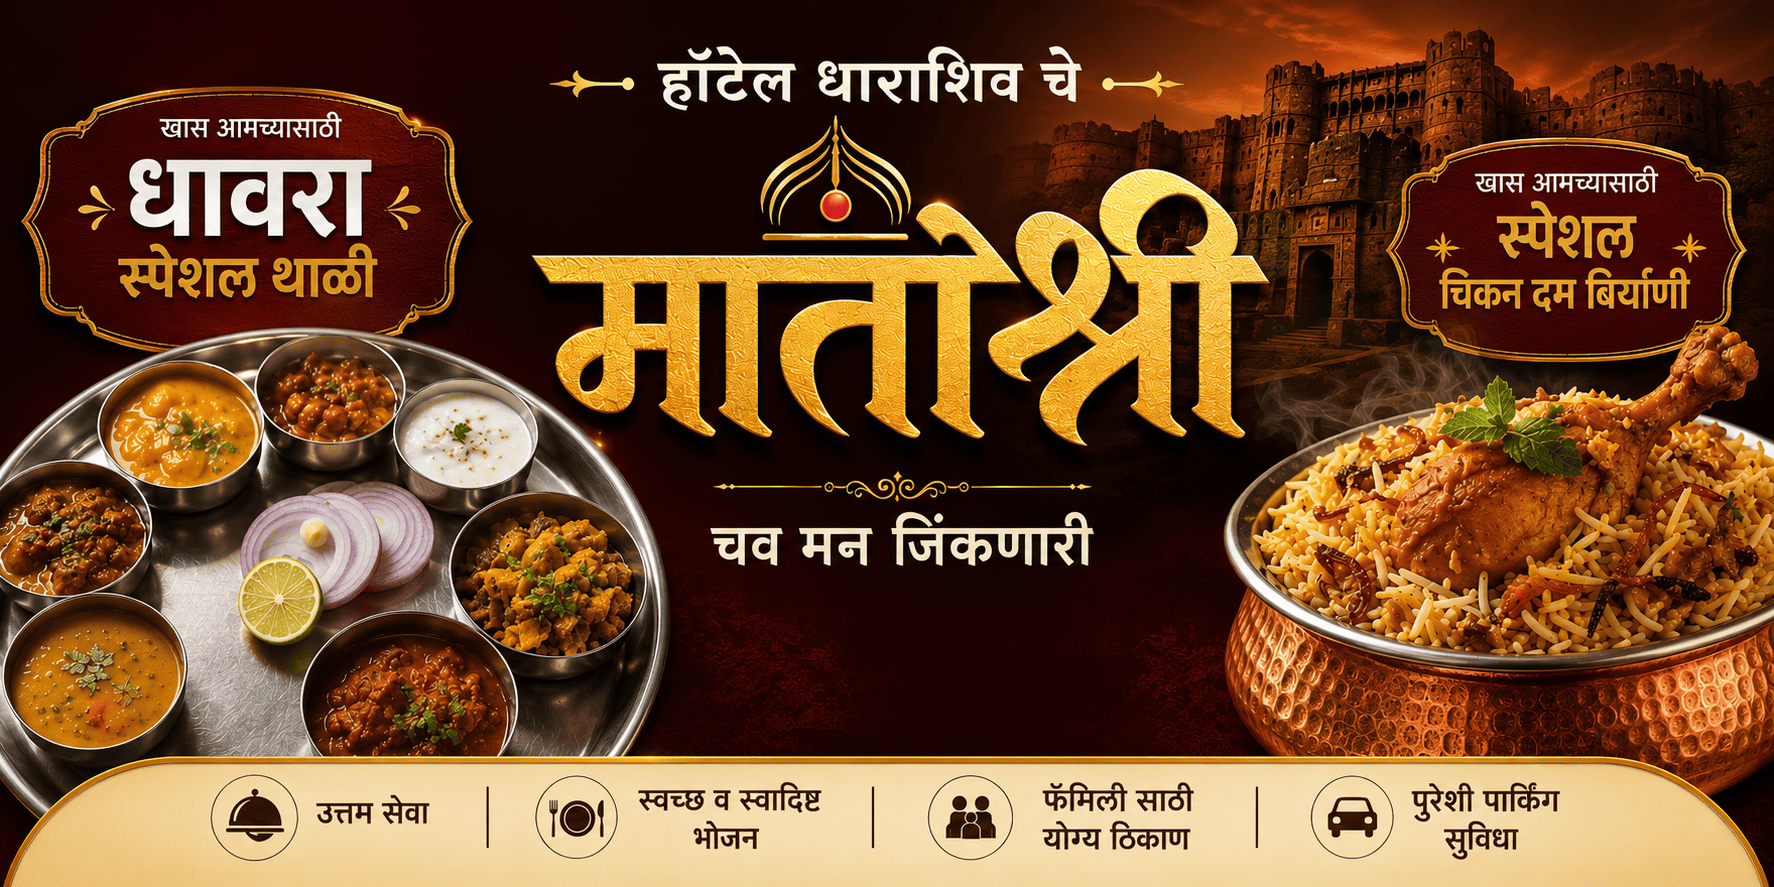
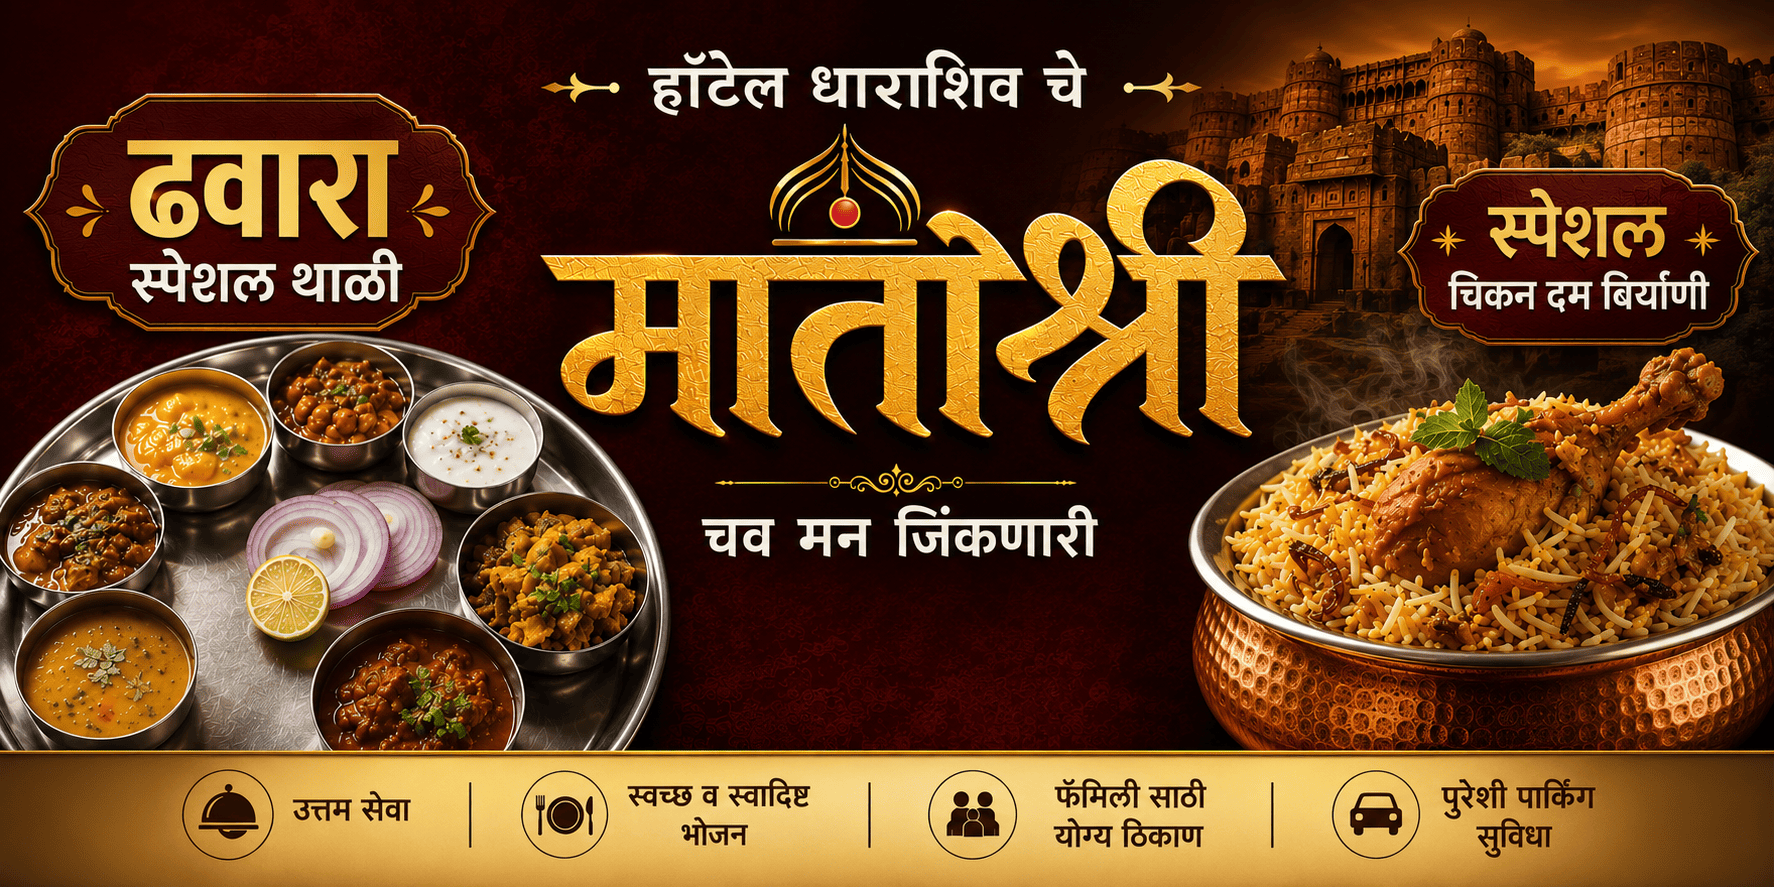
Updated UI for gym and updatehotel matoshree background image

diff --git a/src/components/GymPage.jsx b/src/components/GymPage.jsx
@@ -1,5 +1,4 @@
 import { useEffect, useState } from 'react';
-import { useTranslation } from 'react-i18next';
 import { Analytics } from '@vercel/analytics/react';
 import {
   Activity, ArrowLeft, ArrowRight, BadgeCheck, BicepsFlexed, CalendarDays,
@@ -9,6 +8,9 @@ import {
 } from 'lucide-react';
 import { CONTACT } from '../config.js';
 import gymHero from '../assets/gym/matoshree-gym-hero.png';
+import gymCardio from '../assets/gym/gym-cardio.png';
+import gymPersonalTraining from '../assets/gym/gym-personal-training.png';
+import gymFunctional from '../assets/gym/gym-functional.png';
 
 const copy = {
   mr: {
@@ -76,6 +78,33 @@ const equipment = [
   { icon: Activity, mr: 'फंक्शनल झोन', en: 'Functional zone', items: ['Kettlebells', 'Battle ropes', 'TRX suspension', 'Plyo boxes', 'Resistance bands'] },
 ];
 
+const serviceImages = [
+  {
+    image: gymCardio,
+    number: '01',
+    mr: 'कार्डिओ आणि स्टॅमिना',
+    en: 'Cardio & endurance',
+    mrDesc: 'आधुनिक कार्डिओ फ्लोअरवर तुमची ऊर्जा, सहनशक्ती आणि हृदयाचे आरोग्य वाढवा.',
+    enDesc: 'Build energy, endurance and cardiovascular fitness on a modern cardio floor.',
+  },
+  {
+    image: gymPersonalTraining,
+    number: '02',
+    mr: 'पर्सनल ट्रेनिंग',
+    en: 'Personal training',
+    mrDesc: 'योग्य फॉर्म, वैयक्तिक प्लॅन आणि सातत्यपूर्ण प्रगतीसाठी तज्ज्ञ प्रशिक्षकाची साथ.',
+    enDesc: 'Expert coaching for correct form, a personal programme and consistent progress.',
+  },
+  {
+    image: gymFunctional,
+    number: '03',
+    mr: 'फंक्शनल आणि ग्रुप ट्रेनिंग',
+    en: 'Functional & group training',
+    mrDesc: 'शक्ती, हालचाल आणि आत्मविश्वास वाढवणारे उत्साही कम्युनिटी वर्कआउट्स.',
+    enDesc: 'High-energy community workouts that improve strength, movement and confidence.',
+  },
+];
+
 const faqs = [
   { mrQ: 'नवशिक्यांसाठी ट्रेनर मदत करतात का?', enQ: 'Do trainers help beginners?', mrA: 'होय. इंडक्शन, मशीन ओरिएंटेशन आणि बेसिक वर्कआउट मार्गदर्शन सदस्यत्वात उपलब्ध आहे.', enA: 'Yes. Induction, equipment orientation and basic workout guidance are included.' },
   { mrQ: 'महिलांसाठी स्वतंत्र बॅच आहे का?', enQ: 'Is there a ladies-only batch?', mrA: 'उपलब्ध बॅचेससाठी जिम टीमशी संपर्क साधा; महिलांच्या सुरक्षितता आणि सोयीला प्राधान्य आहे.', enA: 'Please confirm current batch availability; women’s comfort and safety are prioritised.' },
@@ -84,9 +113,8 @@ const faqs = [
 ];
 
 export default function GymPage() {
-  const { i18n } = useTranslation();
-  const isMr = i18n.language !== 'en';
-  const lang = isMr ? 'mr' : 'en';
+  const [lang, setLang] = useState('mr');
+  const isMr = lang === 'mr';
   const c = copy[lang];
   const [menuOpen, setMenuOpen] = useState(false);
   const message = isMr
@@ -120,7 +148,7 @@ export default function GymPage() {
             ))}
           </nav>
           <div className="hidden items-center gap-2 lg:flex">
-            <button type="button" onClick={() => i18n.changeLanguage(isMr ? 'en' : 'mr')} className="inline-flex items-center gap-2 rounded-full px-4 py-2 text-sm font-bold text-white/75 hover:bg-white/10">
+            <button type="button" onClick={() => setLang(isMr ? 'en' : 'mr')} className="inline-flex items-center gap-2 rounded-full px-4 py-2 text-sm font-bold text-white/75 hover:bg-white/10">
               <Globe size={16} />{isMr ? 'English' : 'मराठी'}
             </button>
             <a href="/" className="inline-flex items-center gap-2 rounded-full border border-white/15 px-4 py-2 text-sm font-bold hover:border-amber-500 hover:text-amber-400">
@@ -130,7 +158,7 @@ export default function GymPage() {
           <div className="flex items-center gap-1 lg:hidden">
             <button
               type="button"
-              onClick={() => i18n.changeLanguage(isMr ? 'en' : 'mr')}
+              onClick={() => setLang(isMr ? 'en' : 'mr')}
               className="inline-flex items-center gap-1.5 rounded-full border border-white/15 px-3 py-2 text-xs font-bold text-white/80 hover:border-amber-500 hover:text-amber-400"
               aria-label={isMr ? 'Change language to English' : 'मराठी भाषा निवडा'}
             >
@@ -151,9 +179,9 @@ export default function GymPage() {
 
       <main>
         <section id="top" className="relative flex min-h-screen items-center overflow-hidden pt-16 lg:pt-20">
-          <img src={gymHero} alt="Matoshree Gym modern strength training floor" className="absolute inset-0 h-full w-full object-cover object-center" />
-          <div className="absolute inset-0 bg-gradient-to-r from-black via-black/75 to-black/10" />
-          <div className="absolute inset-0 bg-gradient-to-t from-[#090b0d] via-transparent to-black/30" />
+          <img src={gymHero} alt="Matoshree Gym modern strength training floor" className="absolute inset-0 h-full w-full object-cover object-center brightness-[1.16] saturate-[1.08]" />
+          <div className="absolute inset-0 bg-gradient-to-r from-black/85 via-black/50 to-transparent" />
+          <div className="absolute inset-0 bg-gradient-to-t from-[#090b0d]/85 via-transparent to-black/15" />
           <div className="container-max relative z-10 py-24">
             <div className="max-w-3xl">
               <div className="mb-6 inline-flex items-center gap-2 rounded-full border border-amber-400/30 bg-amber-400/10 px-4 py-2 text-xs font-black uppercase tracking-[.16em] text-amber-400"><Zap size={15} />{c.eyebrow}</div>
@@ -190,6 +218,50 @@ export default function GymPage() {
                   </article>
                 );
               })}
+            </div>
+          </div>
+        </section>
+
+        <section className="overflow-hidden border-y border-white/10 bg-[#0d1013] py-20 sm:py-28">
+          <div className="container-max">
+            <div className="flex flex-col justify-between gap-5 md:flex-row md:items-end">
+              <SectionHeading
+                eyebrow={isMr ? 'तुमचा वर्कआउट. तुमची पद्धत.' : 'Your workout. Your way.'}
+                title={isMr ? 'प्रत्येक ध्येयासाठी प्रीमियम ट्रेनिंग' : 'Premium training for every goal'}
+                sub={isMr ? 'स्वतःच्या गतीने धावा, ट्रेनरसोबत ताकद वाढवा किंवा कम्युनिटीसोबत पुढे जा.' : 'Run at your pace, build strength with a coach, or move forward with the community.'}
+              />
+              <p className="hidden items-center gap-2 pb-1 text-xs font-bold uppercase tracking-[.18em] text-white/35 md:flex">
+                <ArrowRight size={16} className="text-amber-500" />
+                {isMr ? 'अनुभव एक्सप्लोर करा' : 'Explore the experience'}
+              </p>
+            </div>
+
+            <div className="-mx-4 mt-12 flex snap-x snap-mandatory gap-4 overflow-x-auto px-4 pb-5 sm:-mx-6 sm:px-6 lg:mx-0 lg:grid lg:grid-cols-3 lg:gap-5 lg:overflow-visible lg:px-0 lg:pb-0">
+              {serviceImages.map((service, index) => (
+                <article
+                  key={service.en}
+                  className={'group relative h-[430px] min-w-[84vw] snap-center overflow-hidden rounded-3xl border border-white/10 bg-black sm:min-w-[58vw] lg:min-w-0 ' + (index === 1 ? 'lg:-translate-y-5' : '')}
+                >
+                  <img
+                    src={service.image}
+                    alt={service[lang]}
+                    loading="lazy"
+                    className="h-full w-full object-cover transition duration-700 ease-out group-hover:scale-105"
+                  />
+                  <div className="absolute inset-0 bg-gradient-to-t from-black via-black/15 to-transparent" />
+                  <div className="absolute inset-x-0 bottom-0 p-6 sm:p-7">
+                    <div className="mb-4 flex items-center gap-3">
+                      <span className="grid h-9 w-9 place-items-center rounded-full bg-amber-500 text-xs font-black text-black">{service.number}</span>
+                      <span className="h-px flex-1 bg-white/20" />
+                    </div>
+                    <h3 className="text-2xl font-black sm:text-3xl">{service[lang]}</h3>
+                    <p className="mt-2 max-w-sm text-sm leading-6 text-white/60">{service[lang + 'Desc']}</p>
+                  </div>
+                </article>
+              ))}
+            </div>
+            <div className="mt-2 flex justify-center gap-1.5 lg:hidden" aria-hidden="true">
+              {serviceImages.map((service) => <span key={service.number} className="h-1.5 w-6 rounded-full bg-amber-500/40" />)}
             </div>
           </div>
         </section>

diff --git a/src/components/Hero.jsx b/src/components/Hero.jsx
@@ -25,7 +25,6 @@ export default function Hero() {
         className="absolute inset-x-0 top-0 block h-[68vh] min-h-[430px] max-h-[540px] w-full object-cover object-[center_top] sm:hidden"
       />
       <div className="absolute inset-0 bg-black/10" />
-      <div className="absolute inset-0 bg-gradient-to-r from-black/60 via-black/25 to-transparent" />
       <div className="absolute inset-0 bg-gradient-to-t from-black/35 via-transparent to-transparent" />
 
       {/* Content */}